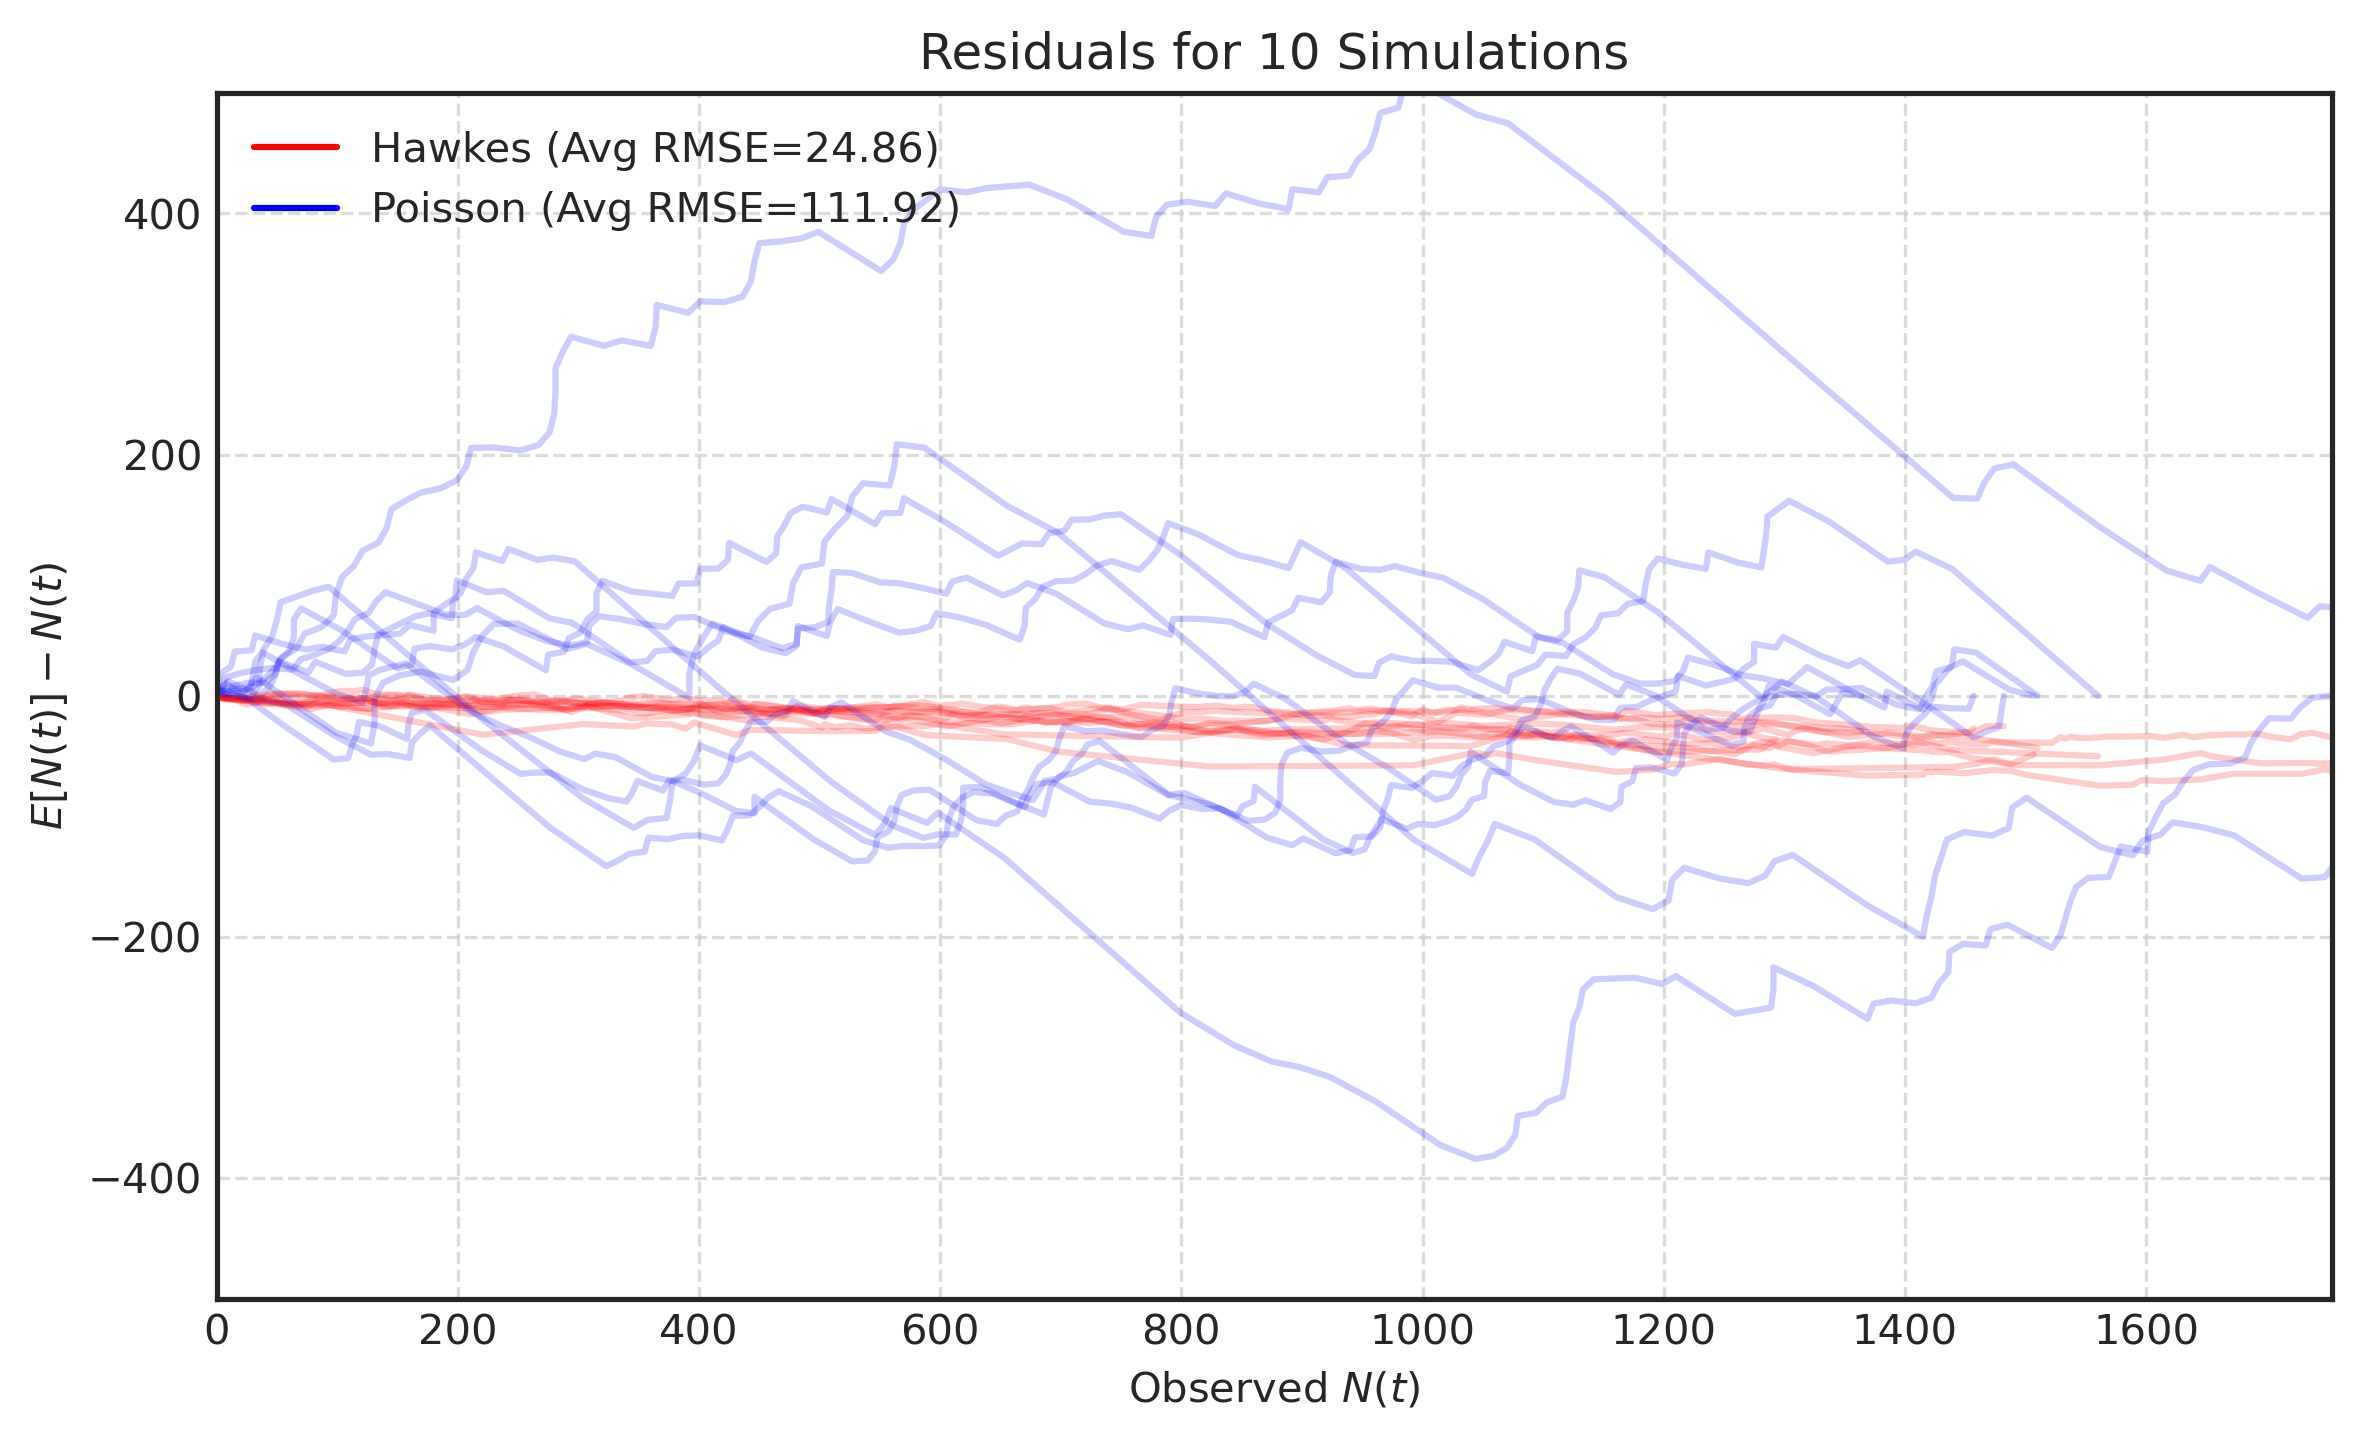
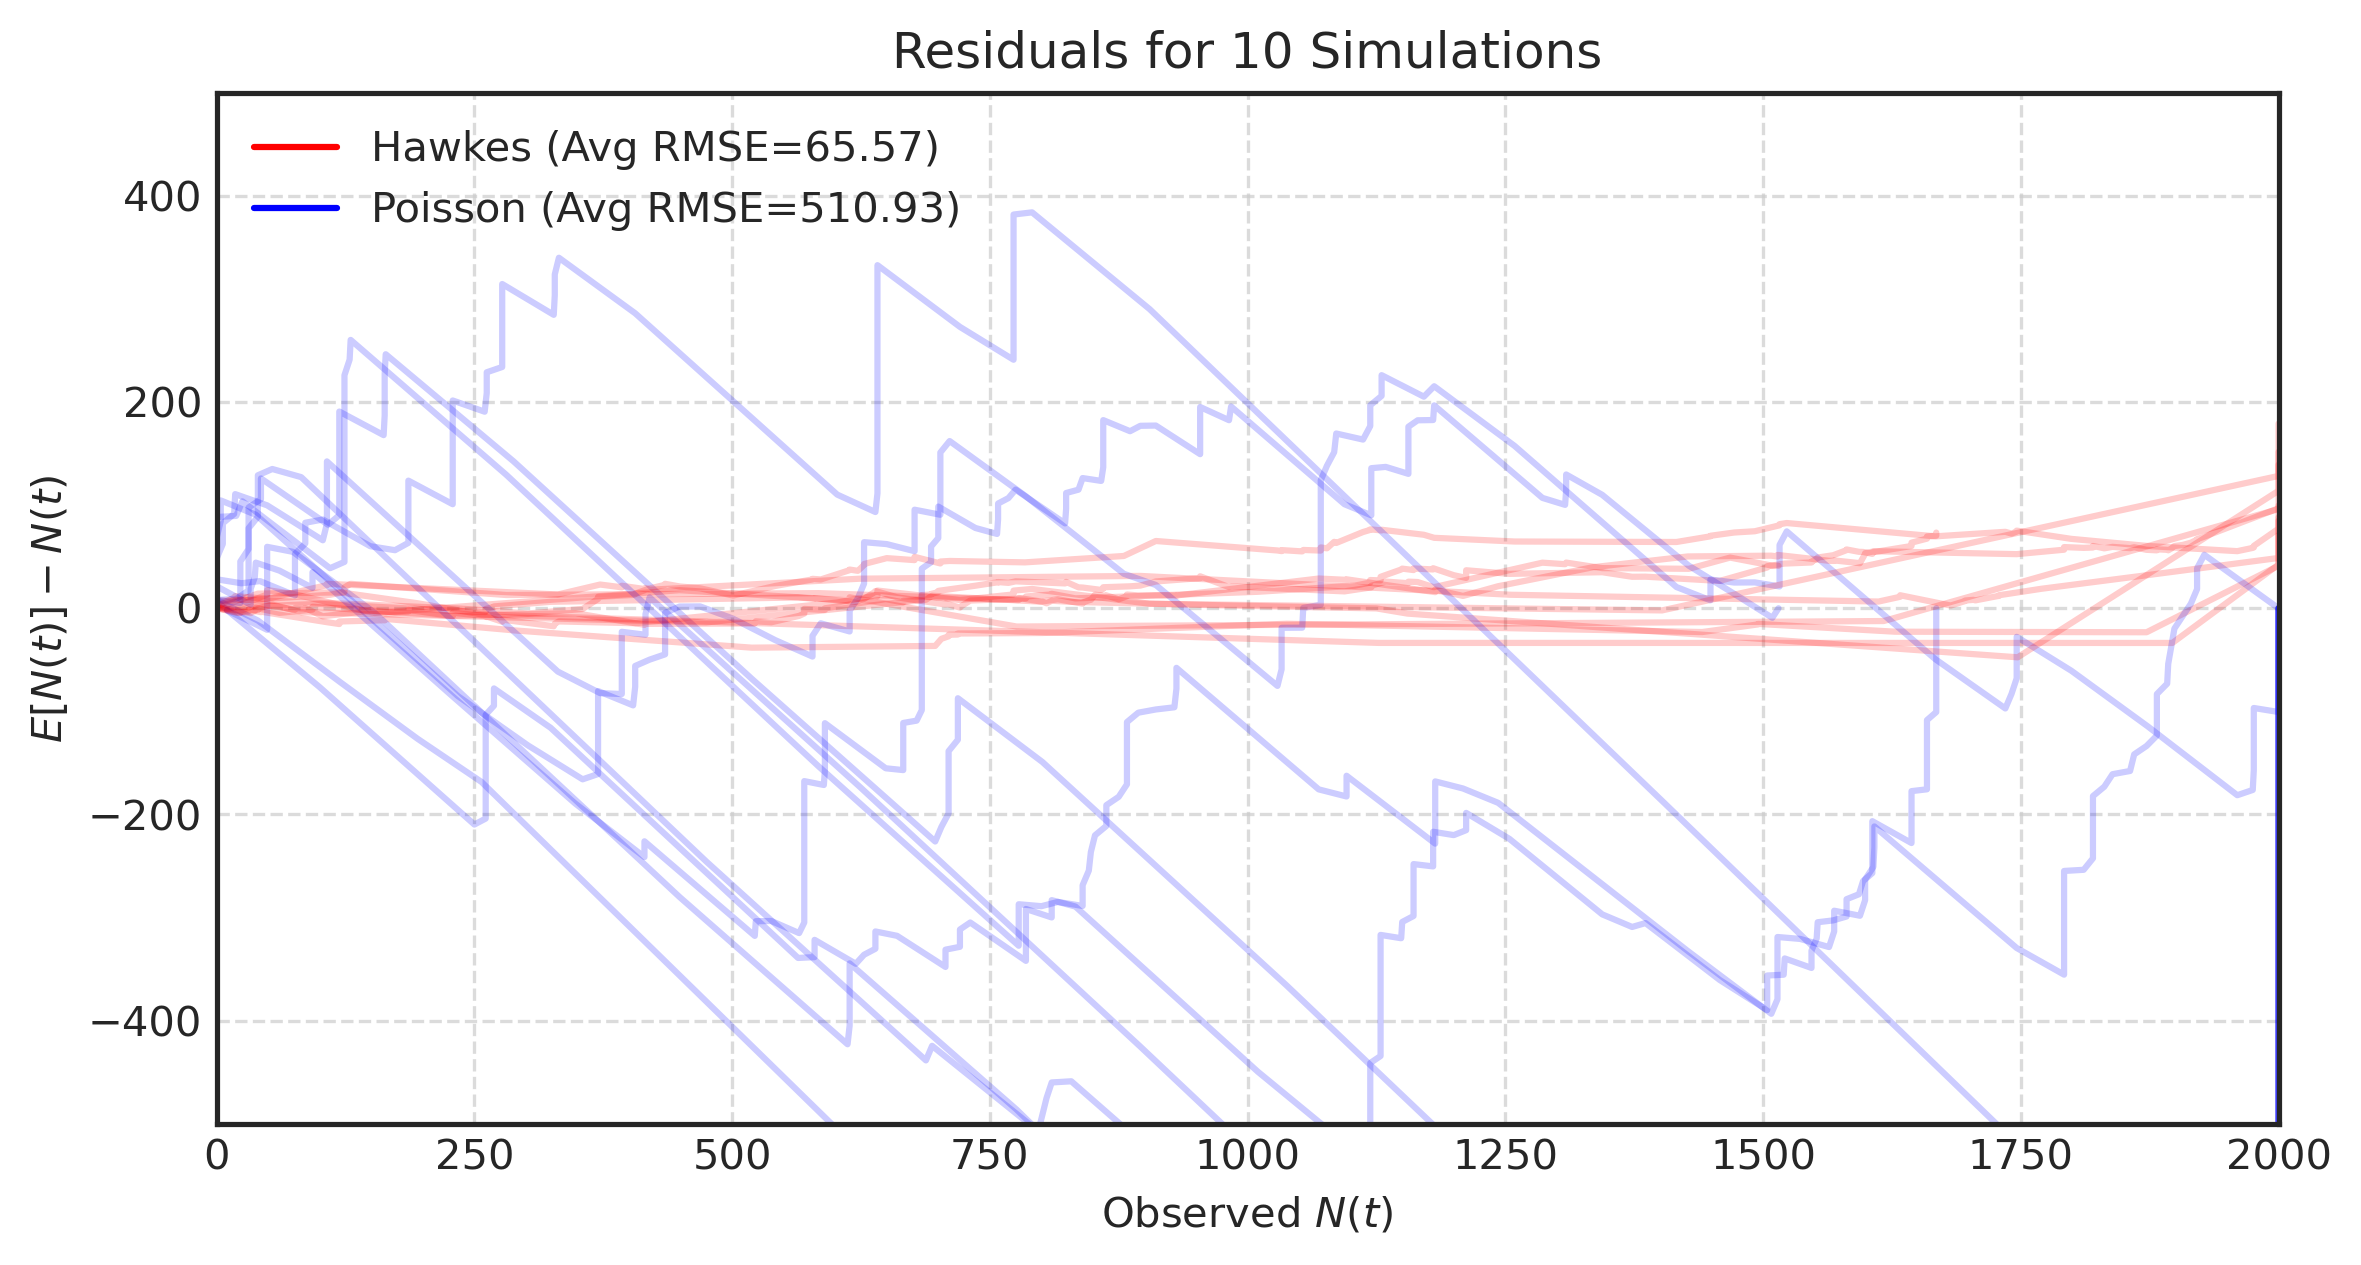
cleanup

diff --git a/src/hawkes/models/hawkes_base.py b/src/hawkes/models/hawkes_base.py
@@ -135,20 +135,6 @@ class HawkesNLL(torch.autograd.Function):
         # Extract states from prefix matrices
         states = prefix_matrices[:, :, 1:].permute(1, 2, 0)  # Shape: [N, M, K]
 
-        # DEBUG: Check that prefix matrices are correct
-        # _state_0 = exp_decay[:, 0:1, :] * one_hot_vectors[0:1]  # Shape: [K, 1, M]
-        # _state_1 = (
-        #     exp_decay[:, 1:2, :] * _state_0
-        #     + exp_decay[:, 1:2, :] * one_hot_vectors[1:2]
-        # )
-        # _state_2 = (
-        #     exp_decay[:, 2:3, :] * _state_1
-        #     + exp_decay[:, 2:3, :] * one_hot_vectors[2:3]
-        # )
-        # assert torch.all(torch.isclose(states[0:1], _state_0.permute(1, 2, 0)))
-        # assert torch.all(torch.isclose(states[1:2], _state_1.permute(1, 2, 0)))
-        # assert torch.all(torch.isclose(states[2:3], _state_2.permute(1, 2, 0)))
-
         # Obtain sorting indices of event nodes and the length of each node type in the sorted tensor
         mi_sorted, idx = torch.sort(mi, stable=True)
         mi_counts = torch.bincount(mi_sorted, minlength=M).tolist()
@@ -165,52 +151,10 @@ class HawkesNLL(torch.autograd.Function):
             states[idx], mi_counts, dim=0
         )  # Shape: [M, Np, M, K]
 
-        # DEBUG: Check that the split is doing what is intended
-        # _ti_split = tuple([] for _ in range(M))
-        # _intensity_split = tuple([] for _ in range(M))
-        # _states_split = tuple([] for _ in range(M))
-        # for t, m, i, s in zip(ti.squeeze(), mi, intensity, states):
-        #     _ti_split[m].append(t)
-        #     _intensity_split[m].append(i)
-        #     _states_split[m].append(s)
-
-        # for _split, split in [
-        #     (_states_split, states_split),
-        #     (_intensity_split, intensity_split),
-        #     (_ti_split, ti_split),
-        # ]:
-        #     for split_list, split_tensor in zip(_split, split):
-        #         print(torch.stack(split_list).squeeze().sum())
-        #         print(split_tensor.squeeze().sum())
-        #         exit(1)
-        #         assert torch.all(
-        #             torch.isclose(
-        #                 torch.stack(split_list).squeeze().sum(),
-        #                 split_tensor.squeeze().sum(),
-        #             )
-        #         )
-
         # Compute mu gradient; only depends on each node type's intensity
         mu_grad = torch.tensor(
             [λp.reciprocal().sum() - T for λp in intensity_split], device=ti.device
         )  # Shape: [M]
-
-        # DEBUG: debugging mu_grad
-        # print(mu_grad)
-        # _mu_grad = [-T for _ in range(M)]
-        # for i, m in enumerate(mi):
-        #     _mu_grad[m] += 1 / intensity[i]
-        # print(torch.tensor(_mu_grad, device=ti.device))
-        # exit(1)
-        # cts = [0] * M
-        # for p in range(M):
-        #     for m in mi:
-        #         if m == p:
-        #             cts[p] += 1
-        # for s, i in zip(states_split, intensity_split):
-        #     print(s.shape, i.shape)
-        # print(cts)
-        # exit(1)
 
         # Compute alpha gradient components using intensity and prefix matrices
         intensity_state_sum = torch.stack(
@@ -225,31 +169,10 @@ class HawkesNLL(torch.autograd.Function):
             dim=1,
         )  # Shape: [M, K]
 
-        # DEBUG: Check correctness of alpha terms
-        # sums = [0] * M
-        # for m, t in zip(mi, ti.squeeze()):
-        #     sums[m] += 1 - torch.exp(-gamma * (T - t)).item()
-        # print(exp_decay_sum)
-        # print(sums)
-        # _states = [0.0] * M
-        # ti = ti.squeeze()
-        # for lim in [100]:  # range(mi.shape[0])
-        #     for m, t in zip(mi[:lim], ti[:lim]):
-        #         _states[m] += torch.exp(-gamma * (ti[lim] - t)).item()
-        #     _states_ten = torch.tensor(_states, device=ti.device).unsqueeze(-1)
-        #     print(torch.isclose(_states_ten, states[lim]))
-        #     print(_states_ten, states[lim])
-        #     assert torch.all(torch.isclose(_states_ten, states[lim]))
-        # print(states[lim])
-        # print(_states)
-
         alpha_grad = (intensity_state_sum - exp_decay_sum).permute(2, 1, 0)
 
         # TODO: Handle parametrized gamma case
-        gamma_grad = None  # * grad_output
-
-        # print(mu_grad, alpha_grad)
-        # exit(1)
+        gamma_grad = None
 
         # Return negative of log-likelihood gradient scaled by 1/N
         return (
@@ -440,70 +363,10 @@ class HawkesBase(torch.nn.Module, ABC):
 
             # Calculate NLL across entire data and perform the backward pass
             nll = self.nll(T, ti, mi)
-            # torchviz.make_dot(
-            #     nll,
-            #     params=dict(list(self.named_parameters())),
-            #     show_attrs=True,
-            #     show_saved=True,
-            # ).render("autograd", format="png")
             nll.backward()
             # nll = self._compute_nll(
             #     T, ti, mi, batch_size=fit_config.batch_size, compute_backward=True
             # )
-
-            # N = ti.shape[1]
-            # batch_size = fit_config.batch_size or N
-            # nll_neg_logsum = 0.0
-            # nll_int = 0.0
-            # prev_state = None
-            # for batch_start in range(0, N, batch_size):
-            #     Nb = min(batch_size, N - batch_start)
-
-            #     nll_int += self.integrated_intensity(
-            #         T, ti, mi, batching=True, batch_start=batch_start, batch_size=Nb
-            #     )
-
-            #     batch_intensity, prev_state = self.intensity_at_events(
-            #         ti,
-            #         mi,
-            #         full_intensity=False,
-            #         batching=True,
-            #         batch_start=batch_start,
-            #         batch_size=Nb,
-            #         batch_prev_state=prev_state,
-            #     )
-            #     nll_neg_logsum -= torch.sum(torch.log(batch_intensity))
-
-            # nll = (nll_neg_logsum + nll_int) / N
-            # torchviz.make_dot(
-            #     nll,
-            #     params=dict(list(self.named_parameters())),
-            #     show_attrs=True,
-            #     show_saved=True,
-            # ).render("autograd", format="png")
-            # nll.backward()
-
-            # assert torch.all(torch.isclose(nll, nll_old))
-
-            # Compute gradient manually rq
-            # M = self.M
-            # intensity = self.intensity_at_events(ti, mi, full_intensity=False).squeeze()
-            # _intensity_split = [[] for _ in range(M)]
-            # for t, m, i in zip(ti.squeeze(), mi, intensity):
-            #     _intensity_split[m].append(i.item())
-            # for i in range(M):
-            #     _intensity_split[i] = torch.tensor(
-            #         _intensity_split[i], device=ti.device
-            #     )
-            # mu_grad = -(
-            #     torch.tensor(
-            #         [torch.reciprocal(ip).sum() for ip in _intensity_split],
-            #         device=ti.device,
-            #     )
-            #     - T
-            # )
-            # mu_grad *= torch.sigmoid(self._inv_mu)
-            # print(mu_grad)
 
             if fit_config.l1_penalty > 0:
                 l1_mu = torch.where(self.mu < fit_config.l1_hinge, self.mu, 0).sum()
@@ -527,15 +390,10 @@ class HawkesBase(torch.nn.Module, ABC):
 
             # Check for NaN gradients
             for n, p in self.named_parameters():
-                # print(f"{n} grad: {p.grad}")
                 if torch.isnan(p.grad).any():
                     self.logger.error(f"Gradient of {n} is nan at epoch {epoch + 1}")
                     self.logger.info(p.grad)
                     raise ValueError(f"Gradient of {n} is nan")
-            # DEBUG: compare
-            # sigmoid = torch.sigmoid(self._inv_alpha)
-            # print((self._inv_alpha.grad / sigmoid - CORRECT_GRAD / sigmoid).abs())
-            # exit(1)
 
             optimizer.step()
             losses.append(loss.item())

diff --git a/examples/simulate_data.py b/examples/simulate_data.py
@@ -70,34 +70,35 @@ args = parser.parse_args()
 # Simulate Hawkes process data
 
 # Fixed simulation hyperparameters to imitate "hub-and-spoke" interaction behavior
-# S = 0.1  # Spontaneous rate
-# I = 0.9  # Influence rate
-# sim_K = 1
-# sim_gamma = [1.5] * sim_K
-# sim_init_scale = 0.1
-# sim_mu = [S] + [0] * (args.M - 1)  # Only hub has spontaneous activity
-# sim_alpha = [[0] * args.M for _ in range(args.M)]
-# sim_alpha[0] = [I] * args.M  # Hub influences all nodes including self
-
-S = 0.1
-I = 0.5
-M = 10
+S = 0.1  # Spontaneous rate
+I = 0.9  # Influence rate
 sim_K = 1
 sim_gamma = [1.5] * sim_K
 sim_init_scale = 0.1
-sim_mu = [S, 0, S, 0, 0, S, S, S, S, S]
-sim_alpha = [
-    [I, I, 0, 0, 0, 0, 0, 0, 0, 0],
-    [S, I, 0, 0, 0, 0, 0, 0, 0, S],
-    [0, 0, I, I, I, 0, 0, 0, 0, 0],
-    [0, 0, S, I, S, 0, 0, 0, 0, 0],
-    [0, 0, S, S, I, 0, 0, 0, 0, S],
-    [0, 0, 0, 0, 0, I, I, I, I, 0],
-    [0, 0, 0, 0, 0, 0, S, S, S, 0],
-    [0, 0, 0, 0, 0, 0, 0, S, S, 0],
-    [0, 0, 0, 0, 0, 0, 0, 0, S, S],
-    [0, 0, 0, 0, 0, 0, 0, 0, 0, I],
-]
+sim_mu = [S] + [0] * (args.M - 1)  # Only hub has spontaneous activity
+sim_alpha = [[0] * args.M for _ in range(args.M)]
+sim_alpha[0] = [I] * args.M  # Hub influences all nodes including self
+
+# Alternative: "three bridged communities" interaction behavior
+# S = 0.1
+# I = 0.5
+# M = 10
+# sim_K = 1
+# sim_gamma = [1.5] * sim_K
+# sim_init_scale = 0.1
+# sim_mu = [S, 0, S, 0, 0, S, S, S, S, S]
+# sim_alpha = [
+#     [I, I, 0, 0, 0, 0, 0, 0, 0, 0],
+#     [S, I, 0, 0, 0, 0, 0, 0, 0, S],
+#     [0, 0, I, I, I, 0, 0, 0, 0, 0],
+#     [0, 0, S, I, S, 0, 0, 0, 0, 0],
+#     [0, 0, S, S, I, 0, 0, 0, 0, S],
+#     [0, 0, 0, 0, 0, I, I, I, I, 0],
+#     [0, 0, 0, 0, 0, 0, S, S, S, 0],
+#     [0, 0, 0, 0, 0, 0, 0, S, S, 0],
+#     [0, 0, 0, 0, 0, 0, 0, 0, S, S],
+#     [0, 0, 0, 0, 0, 0, 0, 0, 0, I],
+# ]
 
 # Initialize model used for simulation
 model_sim = models.HawkesFullRank(

diff --git a/examples/fit_model.py b/examples/fit_model.py
@@ -113,7 +113,7 @@ match args.model_type:
         ).to(args.device)
 
 _ = model_est.fit(
-    1_000_000, ti, mi, fit_config
+    float(ti.max()), ti, mi, fit_config
 )  # Use a large number to capture all events
 
 # Save estimated model
